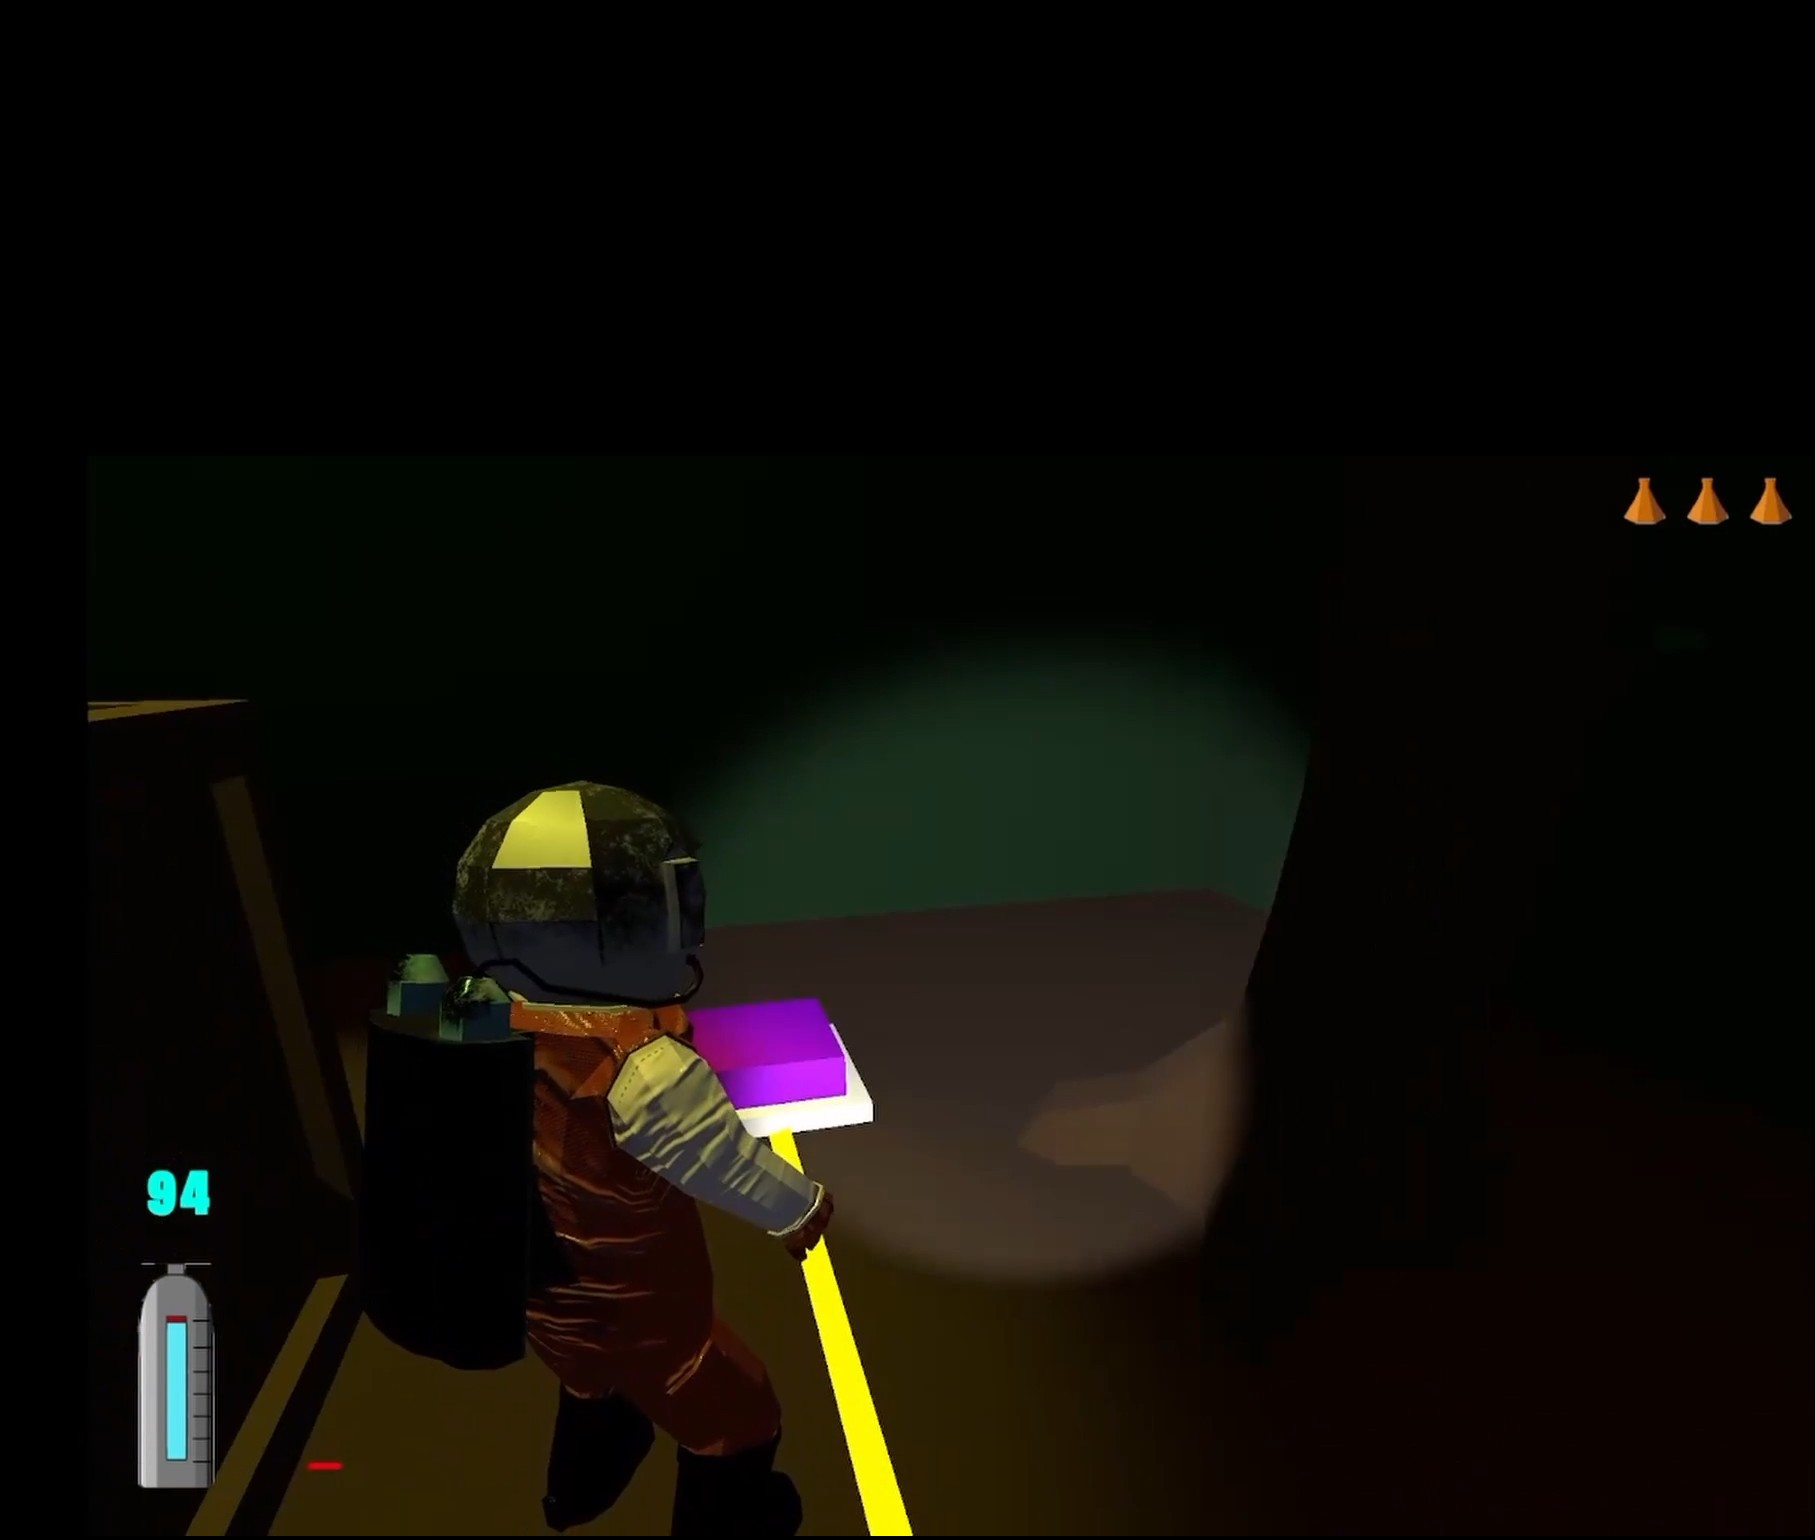
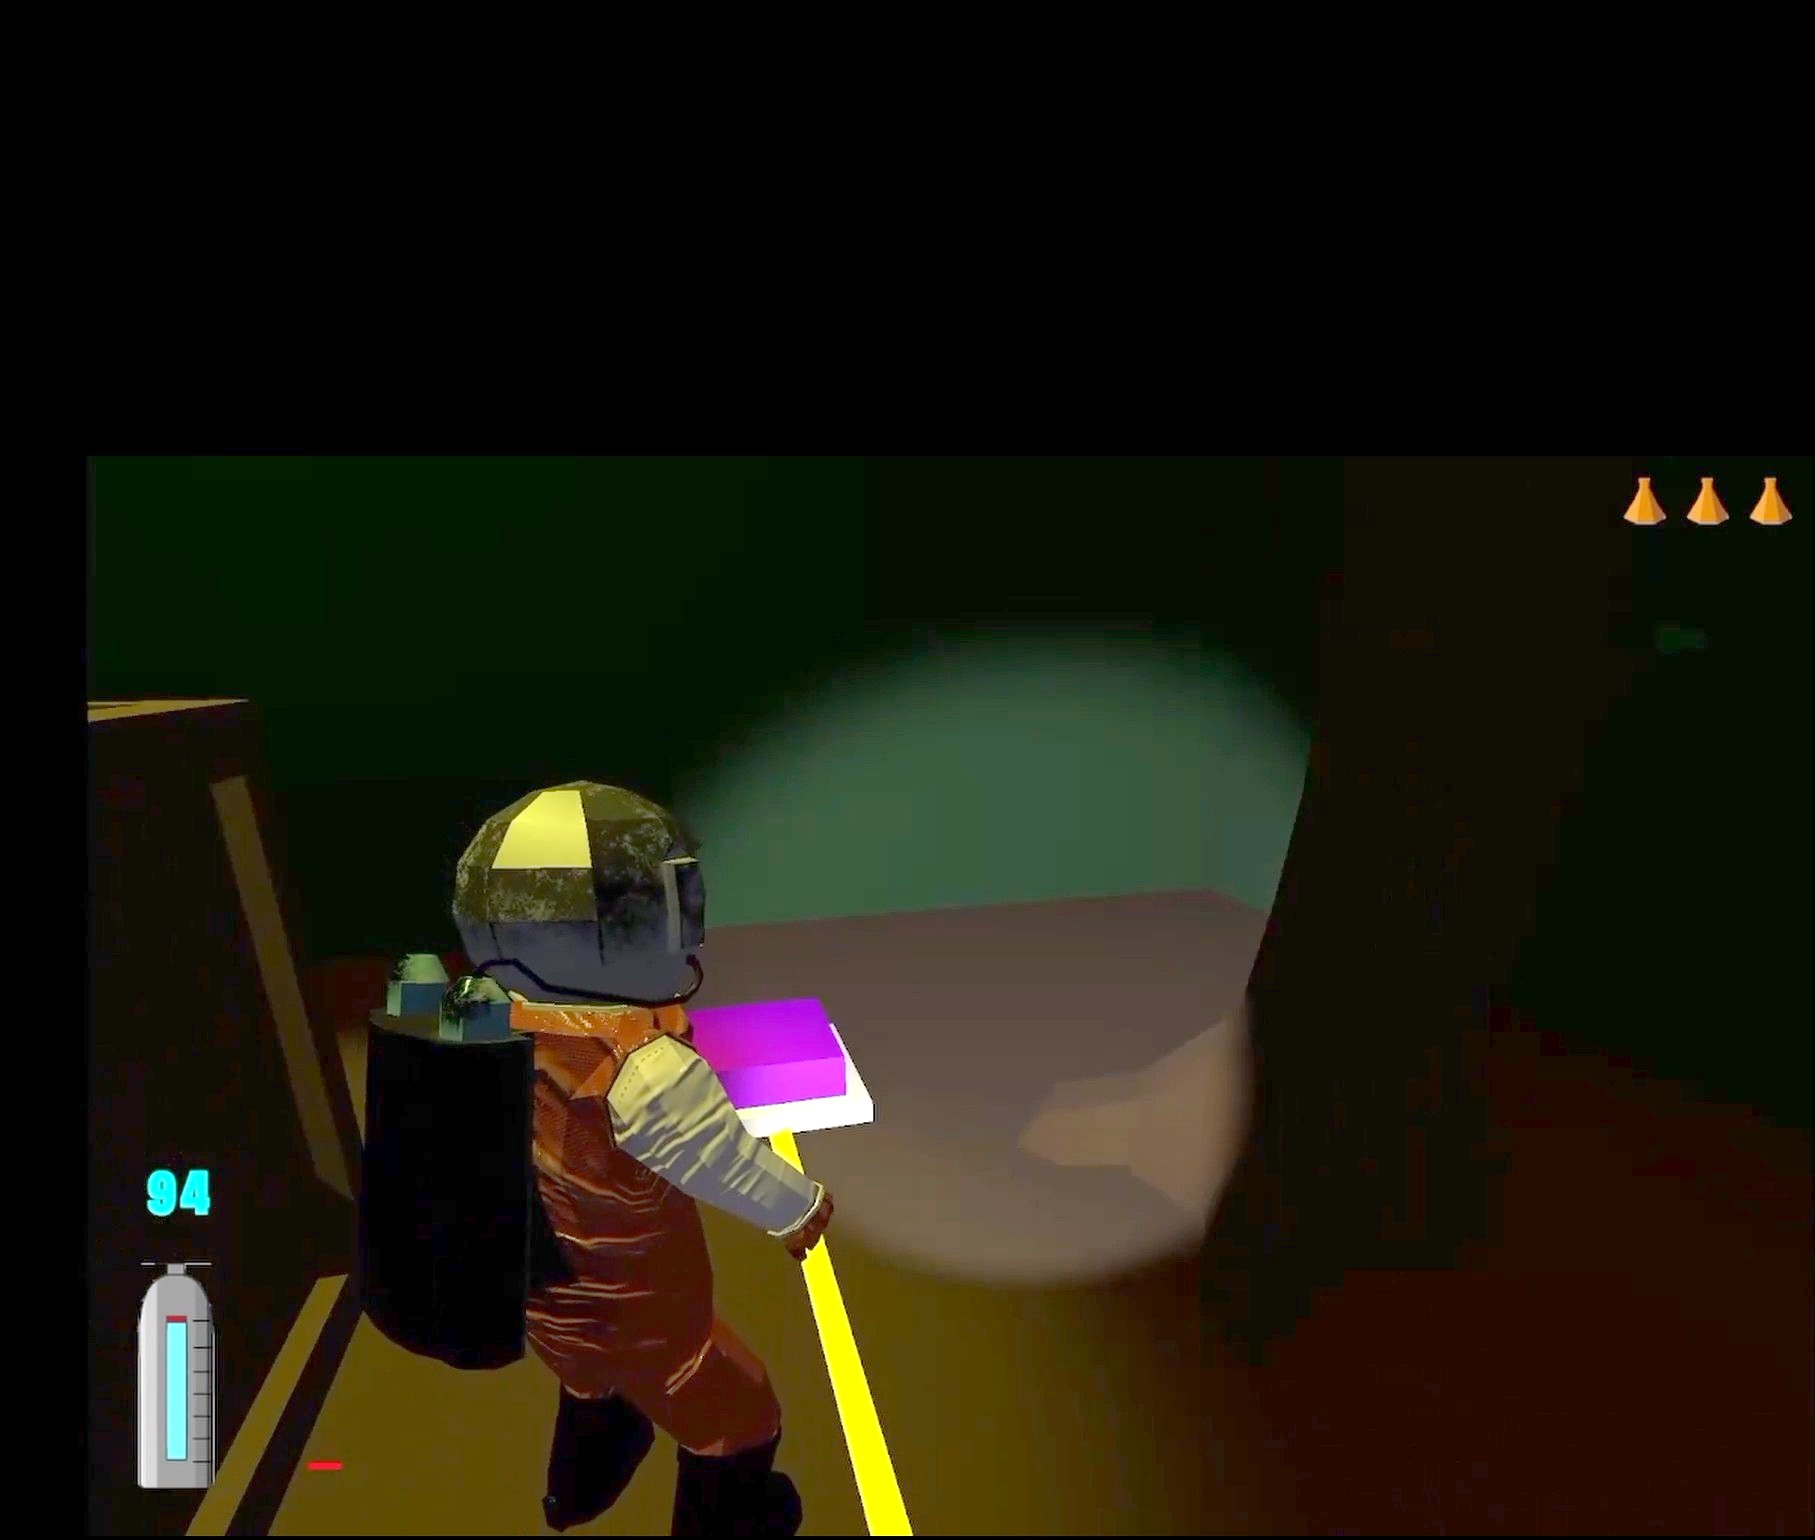
Restore original Invasive hero image; brighten new gameplay screenshots
Bring back invasivetitle.jpg for the page hero as requested, and apply
a gamma/contrast/sharpness pass to the new gameplay screenshots so
shadow detail (monster, terminal, corridor) reads clearly instead of
crushing to black.

Claude-Session: https://claude.ai/code/session_01XX8LyqARcDRJVMfTcX8c6d

diff --git a/projects/invasive.html b/projects/invasive.html
@@ -30,8 +30,8 @@
             <section class="project project-feature">
                 <div class="project-content project-feature-content">
                     <div class="project-info">
-                        <img src="../img/invasive_hero.jpg"
-                            alt="The player approaches a lit doorway through a dark corridor swarming with glowing green spores">
+                        <img src="../img/invasivetitle.jpg"
+                            alt="A plant monster ahead in a dark research station corridor, with the player's oxygen gauge showing in the corner">
                         <div class="text-overlay">
                             <h3>Unity 3D Game</h3>
                         </div>
